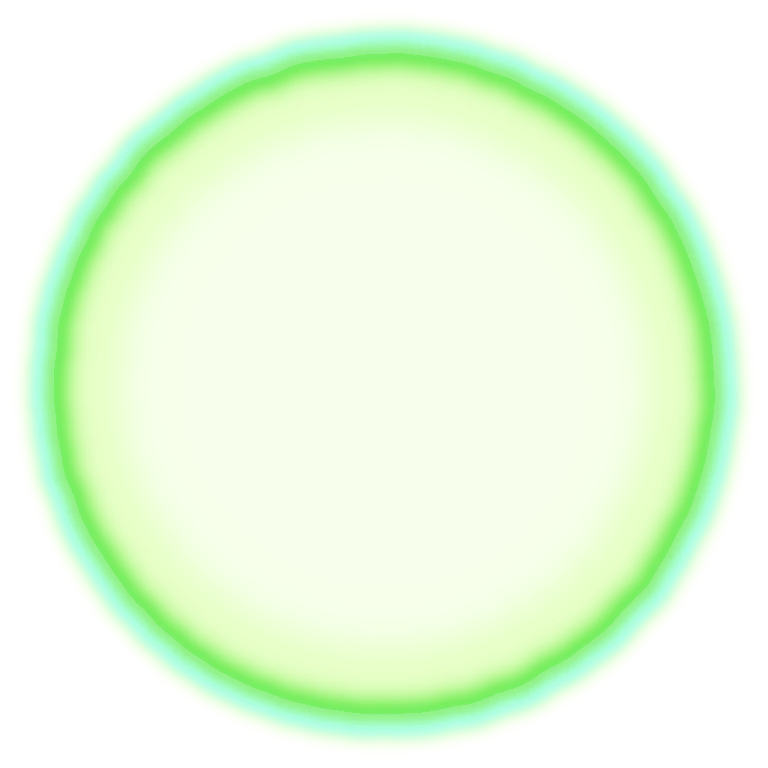
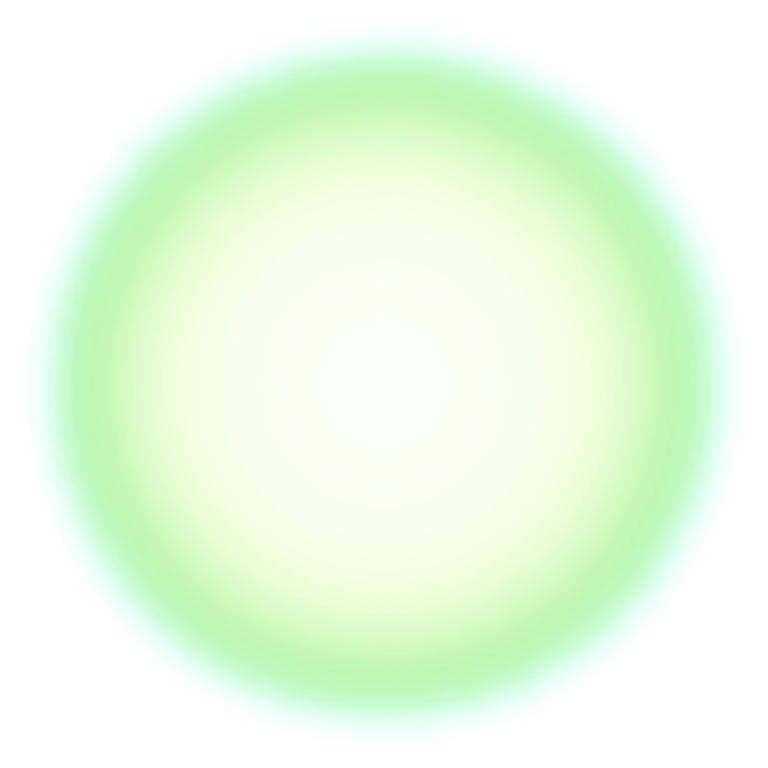
回復の演出: 境界線をぼかす/数字をダメージ数字と同じ字に
Claude-Session: https://claude.ai/code/session_01R93A7HgnznqNrK8QfYykmW

diff --git a/web/src/HealFx.jsx b/web/src/HealFx.jsx
@@ -7,16 +7,14 @@ const IMG = (n) => `url(${import.meta.env?.BASE_URL || '/'}fx/heal/${n}.webp)`
 const L = { position: 'absolute', left: '50%', top: '50%', aspectRatio: '1', pointerEvents: 'none', opacity: 0, backgroundSize: '100% 100%', backgroundRepeat: 'no-repeat', willChange: 'transform, opacity' }
 const C = (size, img, extra) => ({ ...L, height: `${size}%`, marginLeft: `-${size / 2}%`, marginTop: `-${size / 2}%`, backgroundImage: IMG(img), ...extra })
 
-export function HealFx({ text, big }) {
-  const num = String(text ?? '').replace(/^\+/, '')
-  const w = (big ? 46 : 34) * Math.max(1, num.length * 0.78)
+export function HealFx({ children }) {
   return (
     <span aria-hidden="true" data-testid="fx-heal" style={{ position: 'absolute', inset: 0, zIndex: 8, pointerEvents: 'none', overflow: 'visible' }}>
       {/* ① 上から差す緑の光 */}
       <span style={{ position: 'absolute', left: '8%', top: '-8%', width: '46%', height: '64%', borderRadius: '50%', background: 'linear-gradient(180deg, rgba(120,255,170,0.8), rgba(120,255,170,0))', opacity: 0, animation: 'feel-hl-beam 0.3s ease-out both', willChange: 'transform, opacity' }} />
       {/* ② カードの白い光(あとで緑がかる) */}
-      <span style={{ position: 'absolute', inset: 0, borderRadius: 8, background: 'radial-gradient(circle at 50% 45%, #fffff2 0%, rgba(244,255,214,0.92) 58%, rgba(214,255,180,0.7) 100%)', opacity: 0, animation: 'feel-hl-wash 0.8s ease-out 0.05s both', willChange: 'opacity' }} />
-      <span style={{ position: 'absolute', inset: 0, borderRadius: 8, background: 'rgba(120,230,150,0.5)', opacity: 0, animation: 'feel-hl-tint 0.95s ease-in-out 0.3s both', willChange: 'opacity' }} />
+      <span style={{ position: 'absolute', inset: '-10%', borderRadius: '50%', background: 'radial-gradient(closest-side at 50% 50%, #fffff2 0%, rgba(244,255,214,0.92) 45%, rgba(226,255,190,0.5) 72%, rgba(214,255,180,0) 100%)', opacity: 0, animation: 'feel-hl-wash 0.8s ease-out 0.05s both', willChange: 'opacity' }} />
+      <span style={{ position: 'absolute', inset: '-10%', borderRadius: '50%', background: 'radial-gradient(closest-side at 50% 50%, rgba(120,230,150,0.55) 0%, rgba(120,230,150,0.4) 60%, rgba(120,230,150,0) 100%)', opacity: 0, animation: 'feel-hl-tint 0.95s ease-in-out 0.3s both', willChange: 'opacity' }} />
       {/* 白い光の球 → 緑の泡 */}
       <span style={C(190, 'core', { animation: 'feel-hl-orb1 0.6s cubic-bezier(.2,.8,.3,1) 0.08s both' })} />
       <span style={C(142, 'bubble', { animation: 'feel-hl-orb2 0.9s ease-out 0.28s both' })} />
@@ -26,15 +24,9 @@ export function HealFx({ text, big }) {
       {/* きらめき(2枚を順に瞬かせる) */}
       <span style={C(150, 'sparkle', { animation: 'feel-hl-spark 0.55s ease-in-out 0.22s both' })} />
       <span style={C(150, 'sparkle', { transform: 'rotate(37deg) scale(0.92)', animation: 'feel-hl-spark2 0.6s ease-in-out 0.5s both' })} />
-      {/* 緑の大きな数字(最後まで残る) */}
-      <span style={{ position: 'absolute', left: '50%', top: '-34%', marginLeft: -w / 2, width: w, height: (big ? 66 : 50), opacity: 0, animation: 'feel-hl-num 1.3s ease-out 0.06s both', willChange: 'transform, opacity' }}>
-        <svg viewBox={`0 0 ${w} ${big ? 66 : 50}`} style={{ width: '100%', height: '100%', overflow: 'visible' }}>
-          <defs>
-            <linearGradient id="hlg" x1="0" y1="0" x2="0" y2="1"><stop offset="0" stopColor="#8af5b4" /><stop offset="0.5" stopColor="#2fd37c" /><stop offset="1" stopColor="#0f9a55" /></linearGradient>
-          </defs>
-          <text x={w / 2} y={big ? 56 : 43} textAnchor="middle" fontSize={big ? 66 : 50} fontWeight="900" fontStyle="italic" fontFamily='"Chakra Petch","Rajdhani","Segoe UI","Hiragino Sans",sans-serif' fill="none" stroke="#05503a" strokeWidth={big ? 7 : 5.5} strokeLinejoin="round">{num}</text>
-          <text x={w / 2} y={big ? 56 : 43} textAnchor="middle" fontSize={big ? 66 : 50} fontWeight="900" fontStyle="italic" fontFamily='"Chakra Petch","Rajdhani","Segoe UI","Hiragino Sans",sans-serif' fill="url(#hlg)" stroke="#d6ffe6" strokeWidth="1" strokeLinejoin="round">{num}</text>
-        </svg>
+      {/* 緑の数字(ダメージ数字と同じ字。最後まで残る) */}
+      <span style={{ position: 'absolute', left: '50%', top: '-8%', transform: 'translateX(-50%)', zIndex: 2 }}>
+        <span style={{ display: 'block', opacity: 0, animation: 'feel-hl-num 1.3s ease-out 0.06s both', willChange: 'transform, opacity' }}>{children}</span>
       </span>
     </span>
   )

diff --git a/web/src/BattleScreen.jsx b/web/src/BattleScreen.jsx
@@ -254,8 +254,9 @@ function DmgNum({ part, crit, big }) {
   }
   const magic = part.dmgType === 'magic'
   const fin = part.dmgType === 'finisher'
-  const color = fin ? '#b86bff' : magic ? '#5cb8ff' : '#ffffff'
-  const glow = fin ? 'rgba(150,60,255,0.95)' : magic ? 'rgba(60,150,255,0.9)' : 'rgba(255,255,255,0.7)'
+  const heal = part.dmgType === 'heal'
+  const color = heal ? '#6dffa8' : fin ? '#b86bff' : magic ? '#5cb8ff' : '#ffffff'
+  const glow = heal ? 'rgba(40,220,110,0.95)' : fin ? 'rgba(150,60,255,0.95)' : magic ? 'rgba(60,150,255,0.9)' : 'rgba(255,255,255,0.7)'
   return <span style={{ ...base, color, textShadow: `0 0 2px #000, 0 0 2px #000, 0 0 3px #000, 0 2px 0 #000, 0 0 12px ${glow}` }}>{part.text}</span>
 }
 
@@ -566,7 +567,7 @@ export function UnitCard({ unit, active, selected, selectable, lift = true, insp
           {role === 'attacker' ? '攻撃' : role === 'guard' ? 'ガード' : '被弾'}
         </span>
       )}
-      {fx && fx.kind === 'heal' && <HealFx key={`heal-${tick}`} text={fx.text} big={big} />}
+      {fx && fx.kind === 'heal' && <HealFx key={`heal-${tick}`}><DmgNum part={{ text: String(fx.text).replace(/^\+/, ''), dmgType: 'heal' }} big={big} /></HealFx>}
       {fx && fx.kind !== 'heal' && (
         fx.kind === 'damage' && fx.parts ? (
           // ダメージの数字: 物理=白 / 魔法=青 / 確定=虹 / 必殺=紫。大きく太く出す。必殺の紫の数字は、鎌が回りきって光った瞬間に、スキルのダメージと同時に出す

diff --git a/web/tools/bake-heal.py b/web/tools/bake-heal.py
@@ -49,11 +49,13 @@ def bubble():
     n = ang_noise(40, 5)
     R = 0.86 + 0.004 * n
     body = np.clip(1 - r / R, 0, 1) ** 0.6 * (r < R)
-    rim = np.exp(-(((r - R) / 0.055) ** 2))
-    rim_in = np.exp(-(((r - (R - 0.11)) / 0.09) ** 2)) * (r < R)
-    out = np.exp(-(((r - (R + 0.045)) / 0.03) ** 2))
-    a = 0.16 * (1 - body * 0) * (r < R) + 0.28 * rim_in + 0.78 * rim + 0.4 * out
-    a *= np.clip((1 - r) / 0.05, 0, 1)
+    # 縁をぼかす(境界線をくっきりさせない): 縁は広くやわらかい光、内側はなだらかに薄くなる
+    rim = np.exp(-(((r - (R - 0.06)) / 0.17) ** 2))
+    rim_in = np.exp(-(((r - (R - 0.24)) / 0.2) ** 2))
+    out = np.exp(-(((r - (R + 0.05)) / 0.09) ** 2))
+    soft = np.clip(1 - np.clip(r - (R - 0.02), 0, None) / 0.12, 0, 1)
+    a = (0.1 * np.clip((R - r) / 0.5, 0, 1) + 0.2 * rim_in + 0.36 * rim + 0.14 * out) * soft
+    a *= np.clip((1 - r) / 0.12, 0, 1)
     green = np.array([0.46, 0.93, 0.36]); lime = np.array([0.80, 1.0, 0.52]); teal = np.array([0.62, 1.0, 0.86])
     k1 = np.clip(rim, 0, 1)[..., None]; k2 = np.clip(out, 0, 1)[..., None]
     rgb = lime[None, None] * (1 - k1) + green[None, None] * k1
@@ -63,11 +65,11 @@ def bubble():
 # 3) 細い輪: 切れ切れの細い輪(緑〜水色)を数本、にじませて重ねる
 def rings():
     I = np.zeros_like(r); T = np.zeros_like(r)
-    for R, w, amp in [(0.97, 0.004, 0.9), (0.91, 0.003, 0.6), (0.83, 0.003, 0.5), (0.7, 0.0025, 0.35)]:
+    for R, w, amp in [(0.95, 0.009, 0.5), (0.88, 0.008, 0.35), (0.8, 0.008, 0.3), (0.68, 0.007, 0.2)]:
         gate = np.clip(np.sin(3 * ang + rng.uniform(0, 6)) * 1.6 + 0.5 + 0.5 * np.sin(7 * ang + rng.uniform(0, 6)), 0, 1)
         ring = np.exp(-(((r - R) / w) ** 2)) * (0.35 + 0.65 * gate) * amp
         I += ring; T += ring * rng.uniform(0.2, 1)
-    I = np.clip(I + 0.5 * blur(I, 2.5), 0, 1)
+    I = np.clip(0.5 * I + 0.9 * blur(I, 3.5), 0, 1)
     rgb = np.dstack([0.78 + 0.0 * I, 1.0 + 0 * I, 0.85 + 0.1 * T])
     save(rgb, I, 'rings.webp')
 

diff --git a/web/EFFECTS.md b/web/EFFECTS.md
@@ -118,3 +118,4 @@ Feel のすべてのエフェクト・アニメーションは、スマホでも
 - 実装は `src/HealFx.jsx`、キーフレームは `src/ui.js` の `feel-hl-*`。動かすのは transform と opacity だけ。戦闘の待ち時間は 1350ms(旧 800ms)。
 - 質感(11/23 追加: 「動画の質感と同じではない」の指摘): グラデーションだけでは平らだったため、`tools/bake-heal.py` で `public/fx/heal/{core,bubble,rings,sparkle}.webp`(768px・透過)に焼き込んだ。core=縁が放射状にけばだつ白〜黄緑の光の球、bubble=太い明るい緑の縁・内側のやわらかい光・水色のにじみの泡、rings=切れ切れの細い輪、sparkle=白い十字の星と緑の粒。数字はSVG(緑のグラデーション・濃い緑のふち・薄い明るいふち)。
 - 確認: エフェクト一覧で100msごとに撮り、段階の順序を見た。動画と同じ時刻での比較・数字の位置と大きさ・5体同時・実機の滑らかさは未確認。
+- 回復の演出の修正(11/23 2回目): 「境界線がハッキリしすぎ」の指摘で、泡の縁・細い輪・カードの白い光の縁をぼかした(`bake-heal.py` の縁を広く薄く、白い光は `closest-side` の円形で外へなだらかに消える)。数字は、ダメージの数字と同じ字(`DmgNum`、dmgType `heal`: 緑)にした。
